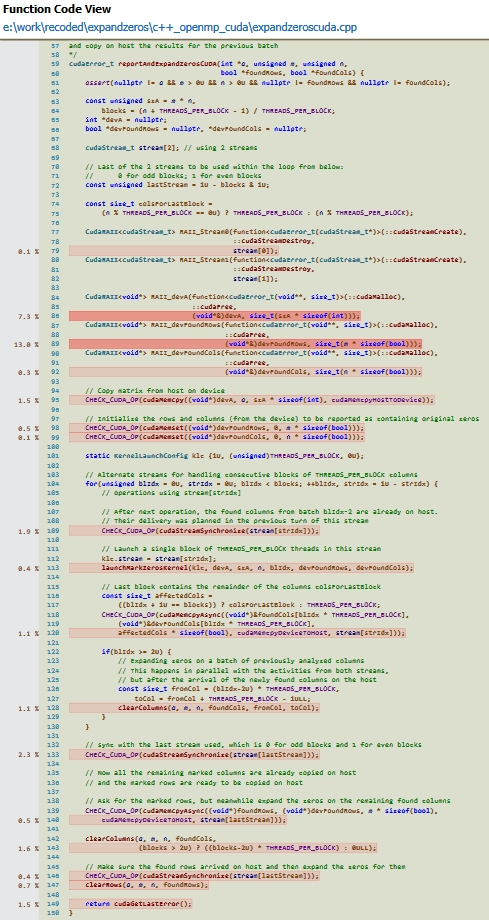
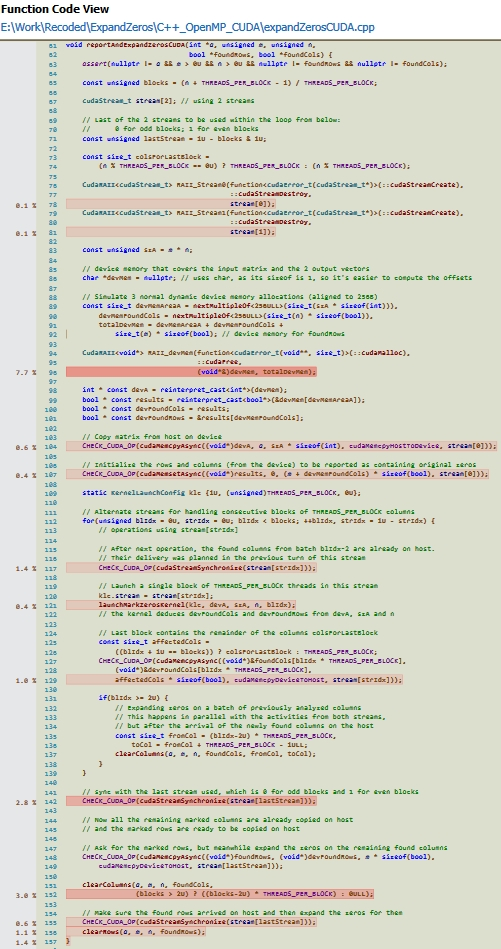
optim: ExpandZeros project - CUDA implementation: less device to host transfers

diff --git a/ExpandZeros/C++_OpenMP_CUDA/expandZerosCUDA.cpp b/ExpandZeros/C++_OpenMP_CUDA/expandZerosCUDA.cpp
@@ -46,14 +46,6 @@ namespace {
 		for(size_t r = 0ULL, rowStart = 0ULL; r < m; ++r, rowStart += n)
 			clearColRangesFromRow(colRanges, &a[rowStart]);
 	}
-
-	/// @return x, so that reference * k == x and k = ceiling(val/reference)
-	template<size_t reference>
-	size_t nextMultipleOf(size_t val) {
-		static_assert(reference > 1ULL, "The template argument of " __FUNCTION__ " needs to be >= 2!");
-		const size_t rest = val % reference;
-		return (rest > 0ULL) ? (val + reference - rest) : val;
-	}
 } // anonymous namespace
 
 /**
@@ -66,8 +58,8 @@ the indices of the rows to be reset and performs this task
 - the GPU uses 2 streams, to be able to simultaneously process a new column batch
 and copy on host the results for the previous batch
 */
-cudaError_t reportAndExpandZerosCUDA(int *a, unsigned m, unsigned n,
-									 bool *foundRows, bool *foundCols) {
+void reportAndExpandZerosCUDA(int *a, unsigned m, unsigned n,
+							  bool *foundRows, bool *foundCols) {
 	assert(nullptr != a && m > 0U && n > 0U && nullptr != foundRows && nullptr != foundCols);
 
 	const unsigned blocks = (n + THREADS_PER_BLOCK - 1) / THREADS_PER_BLOCK;
@@ -95,24 +87,24 @@ cudaError_t reportAndExpandZerosCUDA(int *a, unsigned m, unsigned n,
 
 	// Simulate 3 normal dynamic device memory allocations (aligned to 256B)
 	const size_t devMemAreaA = nextMultipleOf<256ULL>(size_t(szA * sizeof(int))),
-		devMemAreaFoundRows = nextMultipleOf<256ULL>(size_t(m * sizeof(bool))),
-		totalDevMem = devMemAreaA + devMemAreaFoundRows +
-			size_t(n * sizeof(bool)); // device memory for the foundCols
+		devMemFoundCols = nextMultipleOf<256ULL>(size_t(n) * sizeof(bool)),
+		totalDevMem = devMemAreaA + devMemFoundCols +
+			size_t(m) * sizeof(bool); // device memory for foundRows
 
 	CudaRAII<void*> RAII_devMem(function<cudaError_t(void**, size_t)>(::cudaMalloc),
 								::cudaFree,
 								(void*&)devMem, totalDevMem);
 
 	int * const devA = reinterpret_cast<int*>(devMem);
-	bool * const devFoundRows = reinterpret_cast<bool*>(&devMem[devMemAreaA]);
-	bool * const devFoundCols = reinterpret_cast<bool*>(&devMem[devMemAreaA + devMemAreaFoundRows]);
+	bool * const results = reinterpret_cast<bool*>(&devMem[devMemAreaA]);
+	bool * const devFoundCols = results;
+	bool * const devFoundRows = &results[devMemFoundCols];
 
 	// Copy matrix from host on device
-	CHECK_CUDA_OP(cudaMemcpy((void*)devA, a, szA * sizeof(int), cudaMemcpyHostToDevice));
+	CHECK_CUDA_OP(cudaMemcpyAsync((void*)devA, a, szA * sizeof(int), cudaMemcpyHostToDevice, stream[0]));
 
 	// Initialize the rows and columns (from the device) to be reported as containing original zeros
-	CHECK_CUDA_OP(cudaMemset((void*)devFoundRows, 0, m * sizeof(bool)));
-	CHECK_CUDA_OP(cudaMemset((void*)devFoundCols, 0, n * sizeof(bool)));
+	CHECK_CUDA_OP(cudaMemsetAsync((void*)results, 0, (m + devMemFoundCols) * sizeof(bool), stream[0]));
 
 	static KernelLaunchConfig klc {1U, (unsigned)THREADS_PER_BLOCK, 0U};
 
@@ -126,7 +118,8 @@ cudaError_t reportAndExpandZerosCUDA(int *a, unsigned m, unsigned n,
 
 		// Launch a single block of THREADS_PER_BLOCK threads in this stream
 		klc.stream = stream[strIdx];
-		launchMarkZerosKernel(klc, devA, szA, n, blIdx, devFoundRows, devFoundCols);
+		launchMarkZerosKernel(klc, devA, szA, n, blIdx);
+		// the kernel deduces devFoundCols and devFoundRows from devA, szA and n
 
 		// Last block contains the remainder of the columns colsForLastBlock
 		const size_t affectedCols =
@@ -161,6 +154,4 @@ cudaError_t reportAndExpandZerosCUDA(int *a, unsigned m, unsigned n,
 	// Make sure the found rows arrived on host and then expand the zeros for them
 	CHECK_CUDA_OP(cudaStreamSynchronize(stream[lastStream]));
 	clearRows(a, m, n, foundRows);
-
-	return cudaGetLastError();
 }

diff --git a/ExpandZeros/C++_OpenMP_CUDA/cudaSession.h b/ExpandZeros/C++_OpenMP_CUDA/cudaSession.h
@@ -16,24 +16,37 @@ Implementations using OpenMP and CUDA for NVIDIA GPUs.
 
 #include <cuda_runtime.h>
 
+/// @return x, so that reference * k == x and k = ceiling(val/reference)
+template<size_t reference>
+__host__ __device__ size_t nextMultipleOf(size_t val) {
+	const size_t rest = val % reference;
+
+	return (rest > 0ULL) ? (val + reference - rest) : val;
+}
+
 // Macro for checking the execution of a CUDA instruction
 // When not successful, it throws runtime_error providing an explanation
 #define CHECK_CUDA_OP(op) \
-	if(op, cudaGetLastError() != cudaSuccess) { \
-		std::ostringstream oss; \
-		oss<<"Operation " #op " failed because: " \
-			<<cudaGetErrorString(cudaGetLastError()); \
-		throw runtime_error(oss.str()); \
+	{ \
+		const cudaError_t errCode = op; \
+		if(errCode != cudaSuccess) { \
+			std::ostringstream oss; \
+			oss<<"Operation " #op " failed because: "<<cudaGetErrorString(errCode); \
+			throw runtime_error(oss.str()); \
+		} \
 	}
 
 // Macro for checking if the launch of a CUDA kernel succeeded.
 // When not successful, it throws runtime_error providing an explanation
 #define CHECK_CUDA_KERNEL_LAUNCH(kernelName) \
-	if(cudaGetLastError() != cudaSuccess) { \
-		std::ostringstream oss; \
-		oss<<"The launch of kernel " #kernelName " failed because: " \
-			<<cudaGetErrorString(cudaGetLastError()); \
-		throw runtime_error(oss.str()); \
+	{ \
+		const cudaError_t errCode = cudaGetLastError(); \
+		if(errCode != cudaSuccess) { \
+			std::ostringstream oss; \
+			oss<<"The launch of kernel " #kernelName " failed because: " \
+				<<cudaGetErrorString(errCode); \
+			throw runtime_error(oss.str()); \
+		} \
 	}
 
 /**

diff --git a/ExpandZeros/C++_OpenMP_CUDA/expandZerosCUDA.h b/ExpandZeros/C++_OpenMP_CUDA/expandZerosCUDA.h
@@ -13,31 +13,29 @@ Implementations using OpenMP and CUDA for NVIDIA GPUs.
 #include "cudaSession.h"
 
 enum {
-	THREADS_PER_BLOCK = 128 ///< how many threads does a block contain
+	THREADS_PER_BLOCK = 384 ///< how many threads does a block contain
 };
 
 /**
 Expands the zeros from a[m x n]
 Sets on true the indices from foundRows and foundCols where the original zeros were found.
 */
-cudaError_t reportAndExpandZerosCUDA(int *a, unsigned m, unsigned n,
-									 bool *foundRows, bool *foundCols);
+void reportAndExpandZerosCUDA(int *a, unsigned m, unsigned n,
+							  bool *foundRows, bool *foundCols);
 
 /**
 Launches markZeros CUDA kernel
 
 @param kernelLaunchConfig the launch configuration for the kernel
-@param a global memory containing the matrix to process
+@param a global memory containing the matrix to process.
+After the bytes for a, there are 2 regions for foundCols and foundRows.
 @param szA the number of elements of `a`
 @param n the number of columns of `a`
 @param blIdx the index of a batch of consecutive columns to be analyzed within a separate stream
 by a block of THREADS_PER_BLOCK threads
-@param foundRows reports the rows containing values equal to 0
-@param foundCols reports the columns containing values equal to 0
 */
 void launchMarkZerosKernel(const KernelLaunchConfig &kernelLaunchConfig,
 						   const int * const a,
-						   unsigned szA, unsigned n, unsigned blIdx,
-						   bool * const foundRows, bool * const foundCols);
+						   unsigned szA, unsigned n, unsigned blIdx);
 
 #endif // H_EXPAND_ZEROS_CUDA

diff --git a/ExpandZeros/ReadMe.md b/ExpandZeros/ReadMe.md
@@ -6,7 +6,7 @@ Using parallelism and concurrency was the motivation behind checking this proble
 
 The C++ implementation provides:
 
-- an algorithm that uses [CUDA](https://en.wikipedia.org/wiki/CUDA) to ask the GPU for finding the zeros within vertical chunks of the matrix, while the CPU updates the previously detected columns. The GPU transmits the found columns in parallel with finding new ones (There are different streams for those tasks). Updating the rows is supposed to go rather fast and is kept at the final for the CPU:<br>![](C++_OpenMP_CUDA/profiled_CUDA_version.jpg)<br>Despite the high degree of introduced parallelism, the obtained performance is inferior to the other CPU-only approaches (around 80ns per analyzed element versus the better times listed at the bottom of the page). As the profiling demonstrated, more than half from the duration of the method is spent allocating/releasing device memory, 1/4 of it the CPU is either idle (synchronizing with a certain stream) or goes into memory transfers between the host and the device. Only around 1/8 of the time is spent updating columns and rows and launching device kernels
+- an algorithm that uses [CUDA](https://en.wikipedia.org/wiki/CUDA) to ask the GPU for finding the zeros within vertical chunks of the matrix, while the CPU updates the previously detected columns. The GPU transmits the found columns in parallel with finding new ones (There are different streams for those tasks). Updating the rows is supposed to go rather fast and is kept at the final for the CPU:<br>![](C++_OpenMP_CUDA/profiled_CUDA_version.jpg)<br>Despite the high degree of introduced parallelism, the obtained performance is inferior to the other CPU-only approaches (around 45ns per analyzed element versus the better times listed below). As the profiling demonstrated, around half from the duration of the method is spent allocating/releasing device memory and 1/4 of it the CPU is idle, synchronizing with a certain stream. Only around 1/4 of the time is spent updating columns and rows and launching device kernels
 - an [OpenMP](http://www.openmp.org/) algorithm choosing the number of threads tackling the detection of zeros (first phase) and separately, the update of the matrix (the last phase). However, the update is performed in a single row-major traversal: either an entire row or just the marked columns from that row. The update phase is also designed to prevent false sharing. Recording the identified columns keeps the false sharing to a minimum by letting each thread record locally the columns with zeros from their part of the data and then merging those local recordings together. Barriers and locks were avoided whenever possible
 
 Empirically, the multithreading implementations perform better when each used thread has enough elements to analyze, thus there are cases when only a few busy cores are better than several more with less to do. This was more obvious for the Java implementation:
@@ -15,7 +15,9 @@ Empirically, the multithreading implementations perform better when each used th
 - Python: 280ns per analyzed element for a single thread versus 300ns per analyzed element when using 2 threads
 - the C++ implementation based on OpenMP shows for both cases times around 3ns per analyzed element
 
-Next version of the [CUDA](https://en.wikipedia.org/wiki/CUDA) algorithm needs to *merge* the 3 memory areas allocated on device, so that there are less (de)allocations. Currently, the device to host transfers happen often and involve small amounts of memory. Each such transfer lets the host waiting (synchronizing with the corresponding stream). Besides, these transfers are around 100 times slower than large host to device transfers (fact observed while using a CUDA profiler). To address this problem, future kernels should produce less frequent, but larger output (device to host transfers).
+Current version of the [CUDA](https://en.wikipedia.org/wiki/CUDA) algorithm addressed several previously noticed issues and reduced the required time per analyzed element from 80ns to 45ns (times measured for NVIDIA GeForce 9600M GS). Now there is a single (de)allocation of device memory which consumes half of the time. The rate of transfer towards the device is ok, but the feedback from the GPU, although small in size is delivered at a really low transfer rate (see image below). The number of transfers towards the CPU was reduced in the current implementation.<br>![](C++_OpenMP_CUDA/cudaTransfersDuringAlg.jpg)
+
+A kernel detecting all zeros at once would produce a single feedback towards the CPU and this could be the best possible result for the given GPU (It would minimize the number of transfers, but it might hold the CPU a little longer for this new busier kernel - however, the CPU would be able to update the matrix in a single pass).
 
 * * *
 

diff --git a/ReadMe.md b/ReadMe.md
@@ -10,7 +10,7 @@ The list of the recoded projects considered so far:
 ![](CountShapes/CountedShapes.jpg)
 - ***[FurthestSortedPair](FurthestSortedPair/)*** - it determines the most distant pair of sorted elements within a random array with O(N log(N)) compares and using O(N) additional space. The red line from the image below connects the identified pair:<br>
 ![](FurthestSortedPair/furthestSortedPair.jpg)
-- ***[ExpandZeros](ExpandZeros/)*** - it expands the zeros found in a matrix on the corresponding rows and columns. Implemented, studied and improved several multithreading algorithms and also a version using the GPU in parallel with the CPU (based on [CUDA](https://en.wikipedia.org/wiki/CUDA))
+- ***[ExpandZeros](ExpandZeros/)*** - it expands the zeros found in a matrix on the corresponding rows and columns. Implemented, studied and improved several multithreading algorithms and also a version using the GPU in parallel with the CPU (based on [CUDA](https://en.wikipedia.org/wiki/CUDA)). Below appear the data transfers between the CPU (host) and the GPU (device) while processing a matrix:<br>![](ExpandZeros/C++_OpenMP_CUDA/cudaTransfersDuringAlg.jpg)<br>The GPU only identifies which rows and columns contain zeros, that is why it returns less data. The transfers towards the CPU happen in parallel with processing more of the input matrix (see the alternating 2, 3 values from the *Stream ID* column)
 - ***[UnionFind](UnionFind/)*** - a data structure with excellent performance used to build sets of elements and for establishing if 2 items belong to the same set. More details can be found [here](https://en.wikipedia.org/wiki/Disjoint-set_data_structure)
 
 * * *
